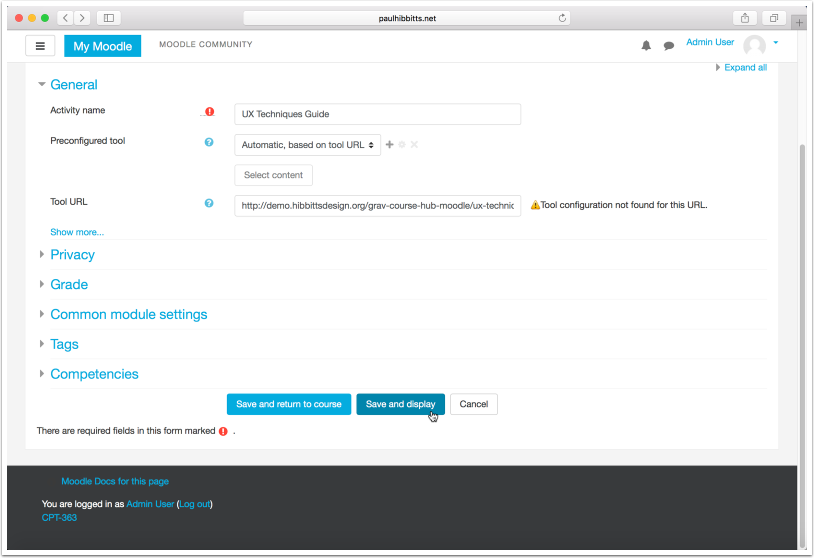
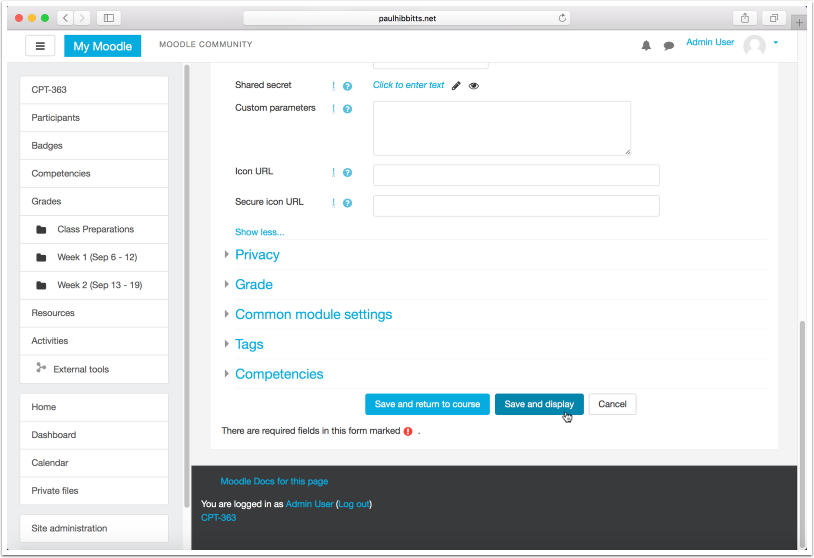
Docs updated.

diff --git a/pages/02.coursehub/11.integrating-grav-with-moodle/docs.md b/pages/02.coursehub/11.integrating-grav-with-moodle/docs.md
@@ -13,7 +13,7 @@ metadata:
 The 'chromeless' feature of the Grav Course Hub hides a site's global navigation elements for seamlessly displaying Course Hub page content within the Moodle LMS in three different ways:
 
 * [Displaying Course Hub Content Within a Moodle Page](#displaying-course-hub-content-within-a-moodle-page)
-* [Displaying Course Hub Unit Summary in a Moodle Topic](#displaying-course-hub-unit-summary-in-a-moodle-topic)
+* [Displaying a Course Hub Unit Summary in a Moodle Topic](#displaying-a-course-hub-unit-summary-in-a-moodle-topic)
 * [Adding Course Hub Content using the External Tool](#adding-course-hub-content-using-the-external-tool)
 
 #### Displaying Course Hub Content Within a Moodle Page
@@ -61,7 +61,7 @@ If all of the content expected is not displayed, or there is too much space betw
 
 ![](../../images/displaying-course-hub-content-within-a-moodle-page/review-the-final-result-of-the-embedded-iframe-code.png)
 
-#### Displaying Course Hub Unit Summary in a Moodle Topic
+#### Displaying a Course Hub Unit Summary in a Moodle Topic
 
 ##### 1. View the Unit (i.e. Week) page you want to include in a Topic, and copy the full URL of that page
 
@@ -134,10 +134,18 @@ Please note that you can also add Course Hub Content using the URL object in Moo
 
 ![](../../images/displaying-course-hub-content-within-a-moodle-page/paste-the-previously-copied-course-hub-page-https-url-into-the--url-redirect--field--and-add---chrom.png)
 
-##### 7. Tap the "Save and display" button
+##### 7. Tap the "Show more..." link
+
+![](../../images/displaying-course-hub-content-within-a-moodle-page/tap-the--show-more--link.png)
+
+##### 8. Choose the "Launch container" option. To display the Grav Course Hub page within the Moodle page choose the "Embed" option.
+
+![](../../images/displaying-course-hub-content-within-a-moodle-page/choose-the--launch-container--option-to-display-the-grav-course-hub-page-within-the-moodle-page-choo.png)
+
+##### 9. Tap the "Save and display" button
 
 ![](../../images/displaying-course-hub-content-within-a-moodle-page/tap-the--save-and-display--button.png)
 
-##### 8. Review the final result of the added Course Hub page
+##### 10. Review the final result of the added Course Hub page
 
 ![](../../images/displaying-course-hub-content-within-a-moodle-page/review-the-final-result-of-the-added-course-hub-page.png)
